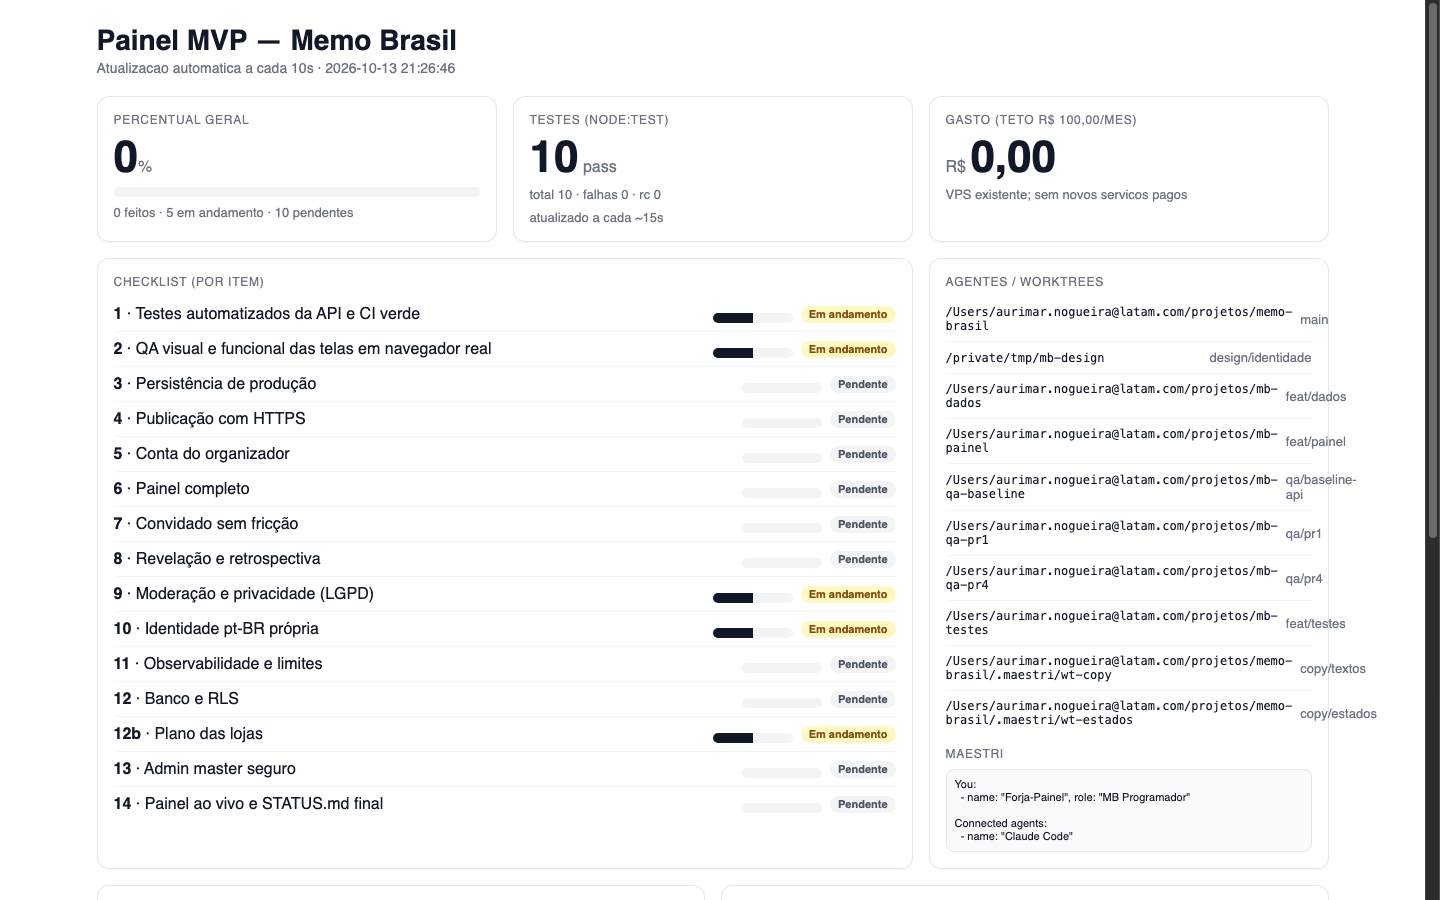
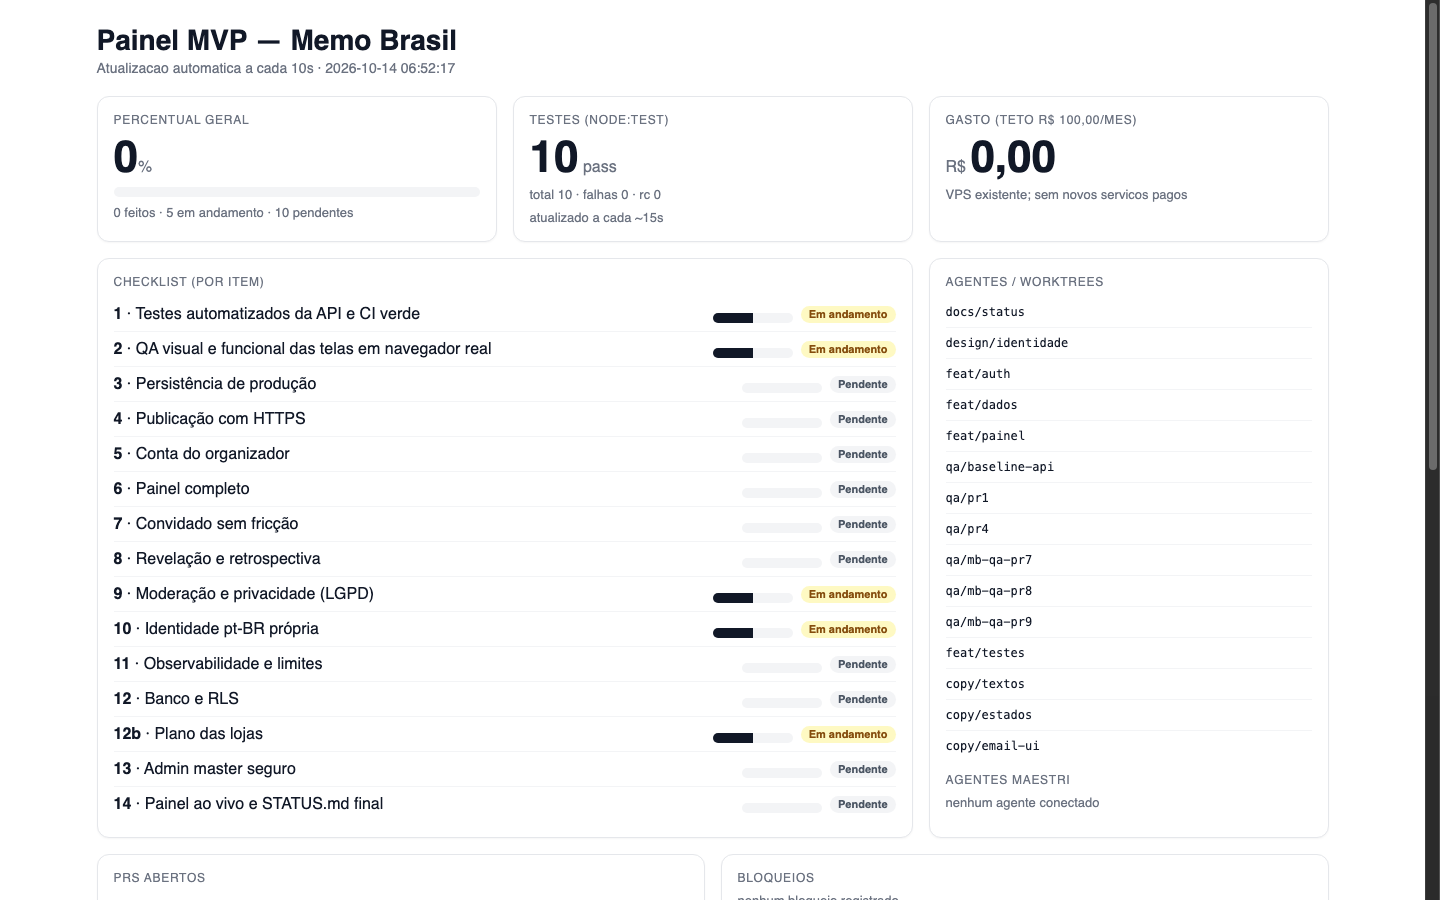
fix(painel): valida Host, testes agendados, sem caminhos locais, sem meta refresh duplo

diff --git a/tools/painel.py b/tools/painel.py
@@ -3,6 +3,12 @@
 
 Serve http://127.0.0.1:3300 (ou PAINEL_PORT) com visao geral do checklist,
 PRs, agentes, testes, gasto e bloqueios. Atualiza a cada 10s.
+
+Correcoes do QA:
+- Host header validado (127.0.0.1 ou localhost + PORTA).
+- Testes rodam por agendador interno, nao por requisicao.
+- Nao expoe caminhos locais (apenas branches e nomes de agentes).
+- Coleta de testes nao trava a thread de requisicoes.
 """
 import html as H
 import json
@@ -18,8 +24,21 @@ PORT = int(os.environ.get("PAINEL_PORT", "3300"))
 ROOT = Path(__file__).resolve().parent.parent
 CHECKLIST_PATH = ROOT / "docs" / "mvp-checklist.json"
 
-_lock = threading.Lock()
-_cache = {"state": None, "ts": 0.0, "tests": None, "tests_ts": 0.0}
+# DNS rebinding: so respondemos a estes hosts.
+ALLOWED_HOSTS = {f"127.0.0.1:{PORT}", f"localhost:{PORT}"}
+
+# Lock para cache de estado HTTP.
+_state_lock = threading.Lock()
+_state_cache = {"value": None, "ts": 0.0}
+
+# Testes rodam em thread propria para nao bloquear requisicoes.
+_tests_lock = threading.Lock()
+_tests_cache = {
+    "value": {"rc": None, "tests": None, "pass": None, "fail": None, "tail": ""},
+    "ts": 0.0,
+}
+_test_stop = threading.Event()
+TEST_INTERVAL = 15
 
 
 def _run(cmd, timeout=30, cwd=ROOT):
@@ -32,31 +51,50 @@ def _run(cmd, timeout=30, cwd=ROOT):
 
 def _pct_status(status):
     s = (status or "").strip().lower()
-    if s in ("concluido", "concluído", "done", "ok", "concluída"):
+    if s in ("concluido", "concluído", "done", "ok", "concluida", "concluída"):
         return 100
     if s in ("em_andamento", "em andamento", "in_progress", "andamento"):
         return 50
     return 0
 
 
+def _run_npm_test():
+    rc, out, err = _run(["npm", "test"], timeout=90)
+    combined = out + "\n" + err
+
+    def grab(key):
+        m = re.search(re.escape(key) + r"\s+(\d+)", combined, re.I)
+        return int(m.group(1)) if m else None
+
+    return {
+        "rc": rc,
+        "tests": grab("tests"),
+        "pass": grab("pass"),
+        "fail": grab("fail"),
+        "tail": combined[-700:],
+    }
+
+
+def _test_loop():
+    """Executa npm test periodicamente em thread daemon."""
+    while not _test_stop.is_set():
+        start = time.time()
+        result = _run_npm_test()
+        with _tests_lock:
+            _tests_cache["value"] = result
+            _tests_cache["ts"] = time.time()
+        elapsed = time.time() - start
+        _test_stop.wait(max(0.0, TEST_INTERVAL - elapsed))
+
+
+def start_test_runner():
+    t = threading.Thread(target=_test_loop, daemon=True)
+    t.start()
+
+
 def get_tests():
-    with _lock:
-        now = time.time()
-        if _cache["tests"] is None or now - _cache["tests_ts"] > 15:
-            rc, out, err = _run(["npm", "test"], timeout=90)
-            combined = out + "\n" + err
-            def grab(key):
-                m = re.search(re.escape(key) + r"\s+(\d+)", combined, re.I)
-                return int(m.group(1)) if m else None
-            _cache["tests"] = {
-                "rc": rc,
-                "tests": grab("tests"),
-                "pass": grab("pass"),
-                "fail": grab("fail"),
-                "tail": combined[-700:],
-            }
-            _cache["tests_ts"] = now
-        return _cache["tests"]
+    with _tests_lock:
+        return dict(_tests_cache["value"])
 
 
 def get_checklist():
@@ -95,29 +133,27 @@ def get_prs():
     return prs
 
 
-def get_worktrees():
+def get_worktree_branches():
+    """Retorna apenas os nomes das branches dos worktrees (sem caminhos)."""
     rc, out, _ = _run(["git", "worktree", "list", "--porcelain"])
-    trees = []
-    current = {}
+    branches = []
     for line in (out or "").splitlines():
-        if line.startswith("worktree "):
-            if current:
-                trees.append(current)
-            current = {"path": line[len("worktree "):]}
-        elif line.startswith("branch "):
-            current["branch"] = line[len("branch "):].replace("refs/heads/", "")
-        elif line == "":
-            if current:
-                trees.append(current)
-                current = {}
-    if current:
-        trees.append(current)
-    return trees
+        if line.startswith("branch "):
+            branch = line[len("branch "):].replace("refs/heads/", "")
+            if branch:
+                branches.append(branch)
+    return branches
 
 
-def get_maestri():
+def get_agentes():
+    """Extrai nome e papel dos agentes Maestri (sem caminhos locais)."""
     rc, out, _ = _run(["maestri", "list"], timeout=15)
-    return out or ("" if rc == 0 else "")
+    agentes = []
+    for line in (out or "").splitlines():
+        m = re.search(r'- name:\s*"([^"]+)"(?:.*role:\s*"([^"]+)")?', line)
+        if m:
+            agentes.append({"nome": m.group(1), "role": m.group(2) or ""})
+    return agentes
 
 
 def get_issues():
@@ -147,10 +183,10 @@ def read_status_blockers():
 
 
 def collect_state():
-    with _lock:
+    with _state_lock:
         now = time.time()
-        if _cache["state"] is not None and now - _cache["ts"] < 5:
-            return _cache["state"]
+        if _state_cache["value"] is not None and now - _state_cache["ts"] < 5:
+            return _state_cache["value"]
     checklist = get_checklist()
     total = len(checklist)
     done = sum(1 for it in checklist if _pct_status(it.get("status")) == 100)
@@ -166,17 +202,16 @@ def collect_state():
         "pendentes": pending,
         "percentual_geral": geral,
         "prs": get_prs(),
-        "worktrees": get_worktrees(),
-        "maestri": get_maestri(),
+        "worktrees": get_worktree_branches(),
+        "agentes": get_agentes(),
         "testes": get_tests(),
         "gasto_reais": os.environ.get("GASTO_REAIS", "0,00"),
         "teto_reais": os.environ.get("TETO_REAIS", "100,00"),
         "bloqueios": read_status_blockers(),
-        "repo": str(ROOT),
     }
-    with _lock:
-        _cache["state"] = state
-        _cache["ts"] = time.time()
+    with _state_lock:
+        _state_cache["value"] = state
+        _state_cache["ts"] = time.time()
     return state
 
 
@@ -189,7 +224,6 @@ PAGE = """<!doctype html>
 <head>
 <meta charset="utf-8">
 <meta name="viewport" content="width=device-width,initial-scale=1">
-<meta http-equiv="refresh" content="10">
 <title>Painel MVP — Memo Brasil</title>
 <style>
 *{box-sizing:border-box}
@@ -254,8 +288,8 @@ a:hover{text-decoration:underline}
     <div class="card col4">
       <div class="label">Agentes / worktrees</div>
       <div id="worktrees"></div>
-      <div class="label" style="margin-top:12px">Maestri</div>
-      <div class="pre" id="maestri"></div>
+      <div class="label" style="margin-top:12px">Agentes Maestri</div>
+      <div id="agentes"></div>
     </div>
 
     <div class="card col6">
@@ -274,16 +308,22 @@ a:hover{text-decoration:underline}
   </div>
 </div>
 <script>
+function pctFromStatus(s){
+  s=(s||'').toLowerCase();
+  if(s.indexOf('conclu')>=0) return 100;
+  if(s.indexOf('andamento')>=0) return 50;
+  return 0;
+}
 function statusClass(s){
   s=(s||'').toLowerCase();
-  if(s==='concluido'||s==='concluído') return 'done';
-  if(s==='em_andamento'||s==='em andamento') return 'doing';
+  if(s.indexOf('conclu')>=0) return 'done';
+  if(s.indexOf('andamento')>=0) return 'doing';
   return 'pend';
 }
 function statusLabel(s){
   s=(s||'').toLowerCase();
-  if(s==='concluido'||s==='concluído') return 'Concluído';
-  if(s==='em_andamento'||s==='em andamento') return 'Em andamento';
+  if(s.indexOf('conclu')>=0) return 'Concluido';
+  if(s.indexOf('andamento')>=0) return 'Em andamento';
   return 'Pendente';
 }
 async function refresh(){
@@ -308,8 +348,7 @@ async function refresh(){
     const cl=document.getElementById('checklist');
     cl.innerHTML='';
     (d.checklist||[]).forEach(function(it){
-      const pct = it.status && (it.status.toLowerCase()==='concluido'||it.status.toLowerCase()==='concluído')?100:
-                  (it.status && it.status.toLowerCase().indexOf('andamento')>=0?50:0);
+      const pct = pctFromStatus(it.status);
       const row=document.createElement('div');
       row.className='row';
       row.innerHTML='<div style="flex:1"><strong>'+esc(it.id)+'</strong> · '+esc(it.titulo)+ (it.evidencia? ' <span class="muted">('+esc(it.evidencia)+')</span>':'') +'</div>'+
@@ -320,14 +359,23 @@ async function refresh(){
 
     const wt=document.getElementById('worktrees');
     wt.innerHTML='';
-    (d.worktrees||[]).forEach(function(w){
+    (d.worktrees||[]).forEach(function(branch){
       const p=document.createElement('div');
       p.className='row';
-      p.innerHTML='<div class="mono">'+esc(w.path)+'</div><div class="muted">'+esc(w.branch||'')+'</div>';
+      p.innerHTML='<div class="mono">'+esc(branch)+'</div>';
       wt.appendChild(p);
     });
     if(!(d.worktrees||[]).length){ wt.innerHTML='<div class="muted">sem worktrees listados</div>'; }
-    document.getElementById('maestri').textContent=d.maestri||'(indisponivel)';
+
+    const ag=document.getElementById('agentes');
+    ag.innerHTML='';
+    (d.agentes||[]).forEach(function(a){
+      const p=document.createElement('div');
+      p.className='row';
+      p.innerHTML='<div style="flex:1">'+esc(a.nome)+'</div><div class="muted">'+esc(a.role)+'</div>';
+      ag.appendChild(p);
+    });
+    if(!(d.agentes||[]).length){ ag.innerHTML='<div class="muted">nenhum agente conectado</div>'; }
 
     const prs=document.getElementById('prs');
     prs.innerHTML='';
@@ -363,7 +411,20 @@ setInterval(refresh,10000);
 
 
 class Handler(BaseHTTPRequestHandler):
+    def _host_ok(self):
+        host = self.headers.get("Host", "")
+        return host in ALLOWED_HOSTS
+
+    def _send_403(self):
+        self.send_response(403)
+        self.send_header("Content-Type", "text/plain; charset=utf-8")
+        self.end_headers()
+        self.wfile.write(b"Host nao autorizado")
+
     def do_GET(self):
+        if not self._host_ok():
+            self._send_403()
+            return
         if self.path == "/" or self.path.startswith("/?"):
             body = PAGE.encode("utf-8")
             self.send_response(200)
@@ -389,8 +450,7 @@ class Handler(BaseHTTPRequestHandler):
 
 
 def main():
-    global PORT
-    # Permite PAINEL_PORT sem redefinir global via env ja lido
+    start_test_runner()
     httpd = ThreadingHTTPServer(("127.0.0.1", PORT), Handler)
     print("Painel MVP: http://127.0.0.1:%d/" % PORT, flush=True)
     try:
@@ -398,6 +458,7 @@ def main():
     except KeyboardInterrupt:
         pass
     finally:
+        _test_stop.set()
         httpd.server_close()
 
 
